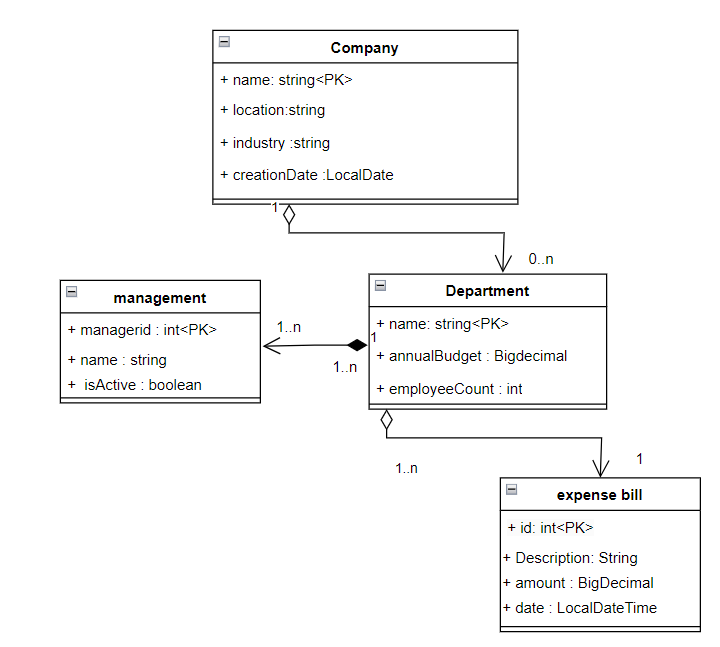
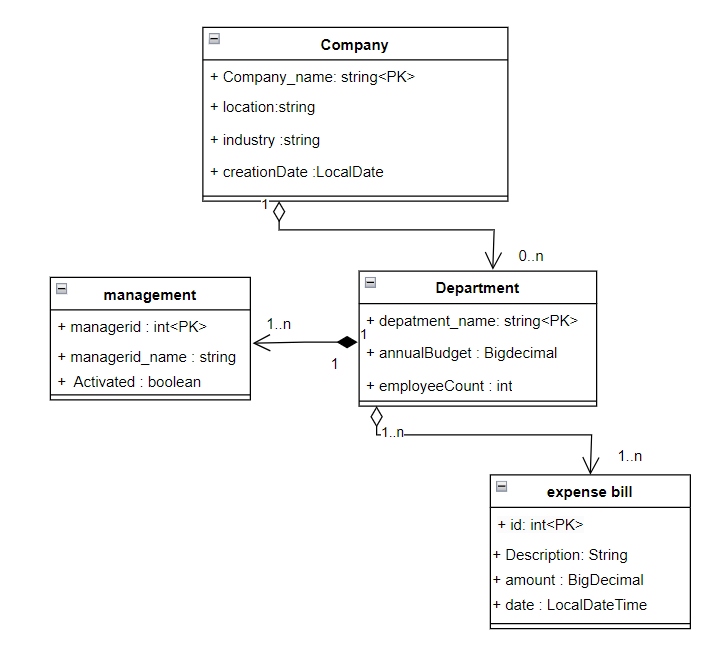
Fix problem of Company Model issue #831

Changed region(s): [[0.0617, 0.0309, 0.9874, 0.9892], [0.5554, 0.711, 0.5863, 0.7419]]

diff --git a/src/main/java/es/upm/miw/apaw_practice/domain/models/company/Department.java b/src/main/java/es/upm/miw/apaw_practice/domain/models/company/Department.java
@@ -3,31 +3,32 @@ import java.math.BigDecimal;
 import java.util.List;
 
 public class Department {
-    private String name;// Primary Key
+    private String department_name;// Primary Key
     private BigDecimal annualBudget;
     private int employeeCount;
     private Company company;
     private List<ExpenseBill> expenseBills;
-    private Management management;
+    private List<Management> management;
 
     public Department() {
         //empty for framework
     }
 
-    public Department(String name, BigDecimal annualBudget, int employeeCount, Company company, Management management) {
-        this.name = name;
+    public Department(String department_name, BigDecimal annualBudget, int employeeCount, Company company) {
+        this.department_name = department_name;
         this.annualBudget = annualBudget;
         this.employeeCount = employeeCount;
         this.company = company;
-        this.management = management;
+
+
     }
 
-    public String getName() {
-        return name;
+    public String getDepartment_name() {
+        return department_name;
     }
 
-    public void setName(String name) {
-        this.name = name;
+    public void setDepartment_name(String department_name) {
+        this.department_name = department_name;
     }
 
     public BigDecimal getAnnualBudget() {
@@ -54,6 +55,15 @@ public class Department {
         this.company = company;
     }
 
+
+    public List<Management> getManagement() {
+        return management;
+    }
+
+    public void setManagement(List<Management> management) {
+        this.management = management;
+    }
+
     public List<ExpenseBill> getExpenseBills() {
         return expenseBills;
     }
@@ -62,12 +72,6 @@ public class Department {
         this.expenseBills = expenseBills;
     }
 
-    public Management getManagement() {
-        return management;
-    }
 
-    public void setManagement(Management management) {
-        this.management = management;
-    }
 }
 

diff --git a/src/main/java/es/upm/miw/apaw_practice/domain/models/company/ExpenseBill.java b/src/main/java/es/upm/miw/apaw_practice/domain/models/company/ExpenseBill.java
@@ -4,29 +4,29 @@ import java.math.BigDecimal;
 import java.time.LocalDateTime;
 
 public class ExpenseBill {
-    private int id;// Primary Key
+    private int expenseBill_id;// Primary Key
     private String description;
     private BigDecimal amount;
     private LocalDateTime date;
-    private Department department;
+
 
     public ExpenseBill() {
         //empty for framework
     }
-    public ExpenseBill(int id, String description, BigDecimal amount, LocalDateTime date, Department department) {
-        this.id = id;
+    public ExpenseBill(int expenseBill_id, String description, BigDecimal amount, LocalDateTime date) {
+        this.expenseBill_id = expenseBill_id;
         this.description = description;
         this.amount = amount;
         this.date = date;
-        this.department = department;
+
     }
 
-    public int getId() {
-        return id;
+    public int getExpenseBill_id() {
+        return expenseBill_id;
     }
 
-    public void setId(int id) {
-        this.id = id;
+    public void setExpenseBill_id(int expenseBill_id) {
+        this.expenseBill_id = expenseBill_id;
     }
 
     public String getDescription() {
@@ -53,13 +53,7 @@ public class ExpenseBill {
         this.date = date;
     }
 
-    public Department getDepartment() {
-        return department;
-    }
 
-    public void setDepartment(Department department) {
-        this.department = department;
-    }
 
 }
 

diff --git a/src/main/java/es/upm/miw/apaw_practice/domain/models/company/Management.java b/src/main/java/es/upm/miw/apaw_practice/domain/models/company/Management.java
@@ -5,16 +5,16 @@ import java.util.List;
 public class Management {
     private int managerId;// Primary Key
     private String name;
-    private boolean isActive;
-    private List<Department> departments;
+    private boolean Activated;
+    
 
     public Management() {
         //empty for framework
     }
-    public Management(int managerId, String name, boolean isActive) {
+    public Management(int managerId, String name, boolean Activated) {
         this.managerId = managerId;
         this.name = name;
-        this.isActive = isActive;
+        this.Activated = Activated;
     }
 
     public int getManagerId() {
@@ -33,20 +33,14 @@ public class Management {
         this.name = name;
     }
 
-    public boolean isActive() {
-        return isActive;
+    public boolean isActivated() {
+        return Activated;
     }
 
-    public void setActive(boolean active) {
-        isActive = active;
+    public void setActivated(boolean activated) {
+        Activated = activated;
     }
 
-    public List<Department> getDepartments() {
-        return departments;
-    }
 
-    public void setDepartments(List<Department> departments) {
-        this.departments = departments;
-    }
 }
 

diff --git a/src/main/java/es/upm/miw/apaw_practice/domain/models/company/Company.java b/src/main/java/es/upm/miw/apaw_practice/domain/models/company/Company.java
@@ -4,7 +4,7 @@ import java.time.LocalDate;
 import java.util.List;
 
 public class Company {
-    private String name;// Primary Key
+    private String company_name;// Primary Key
     private String location;
     private String industry;
     private LocalDate creationDate;
@@ -14,19 +14,19 @@ public class Company {
         //empty for framework
     }
 
-    public Company(String name, String location, String industry, LocalDate creationDate) {
-        this.name = name;
+    public Company(String company_name, String location, String industry, LocalDate creationDate) {
+        this.company_name = company_name;
         this.location = location;
         this.industry = industry;
         this.creationDate = creationDate;
     }
 
-    public String getName() {
-        return name;
+    public String getCompany_name() {
+        return company_name;
     }
 
-    public void setName(String name) {
-        this.name = name;
+    public void setCompany_name(String company_name) {
+        this.company_name = company_name;
     }
 
     public String getLocation() {
